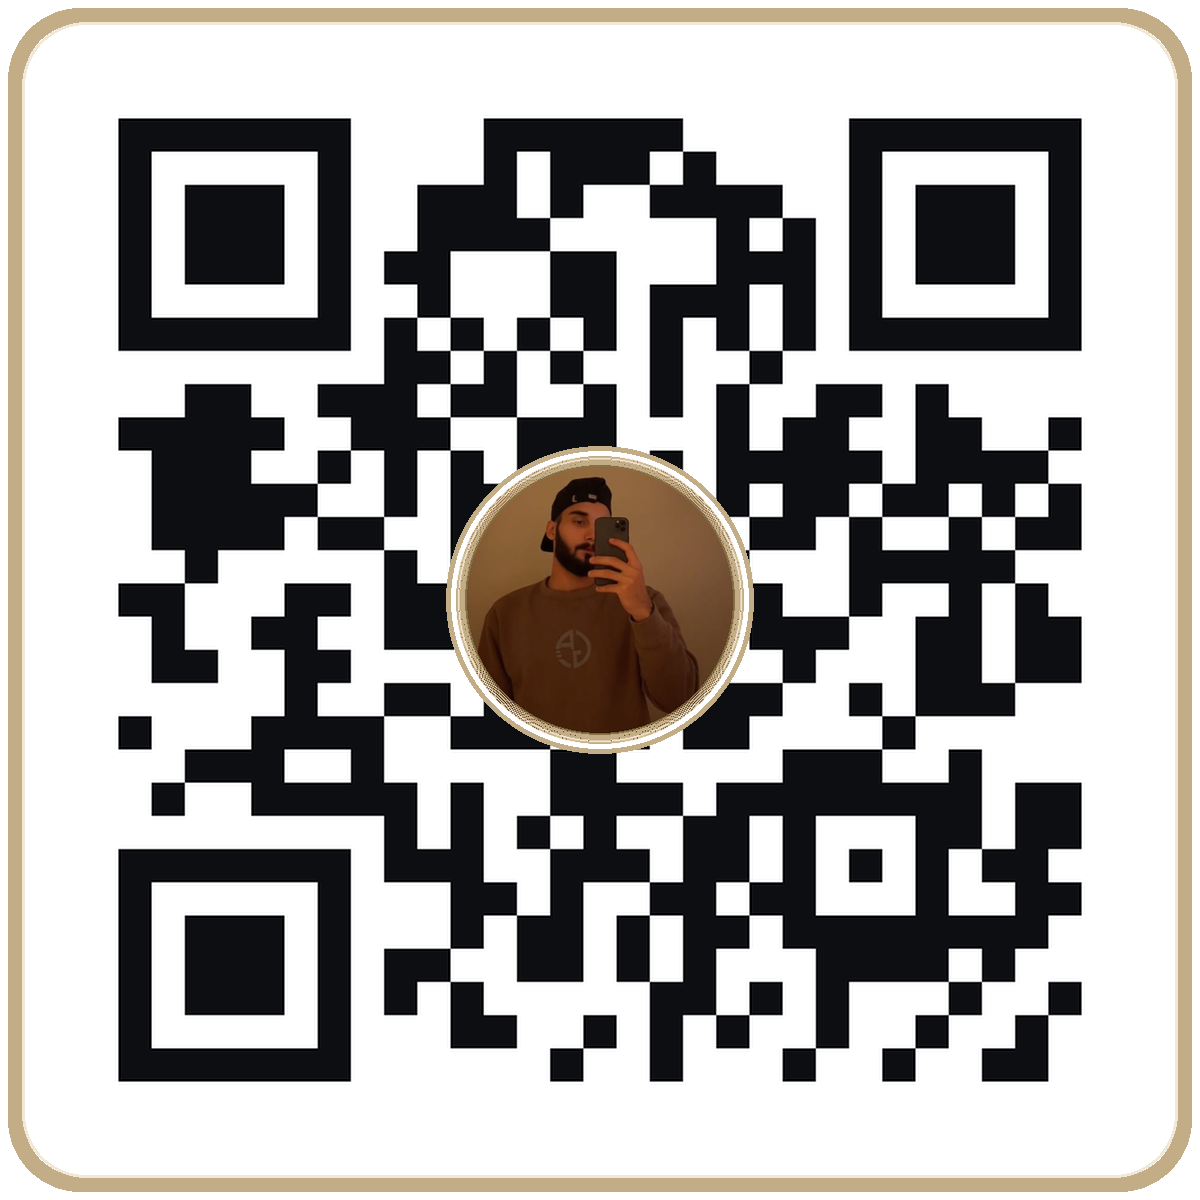
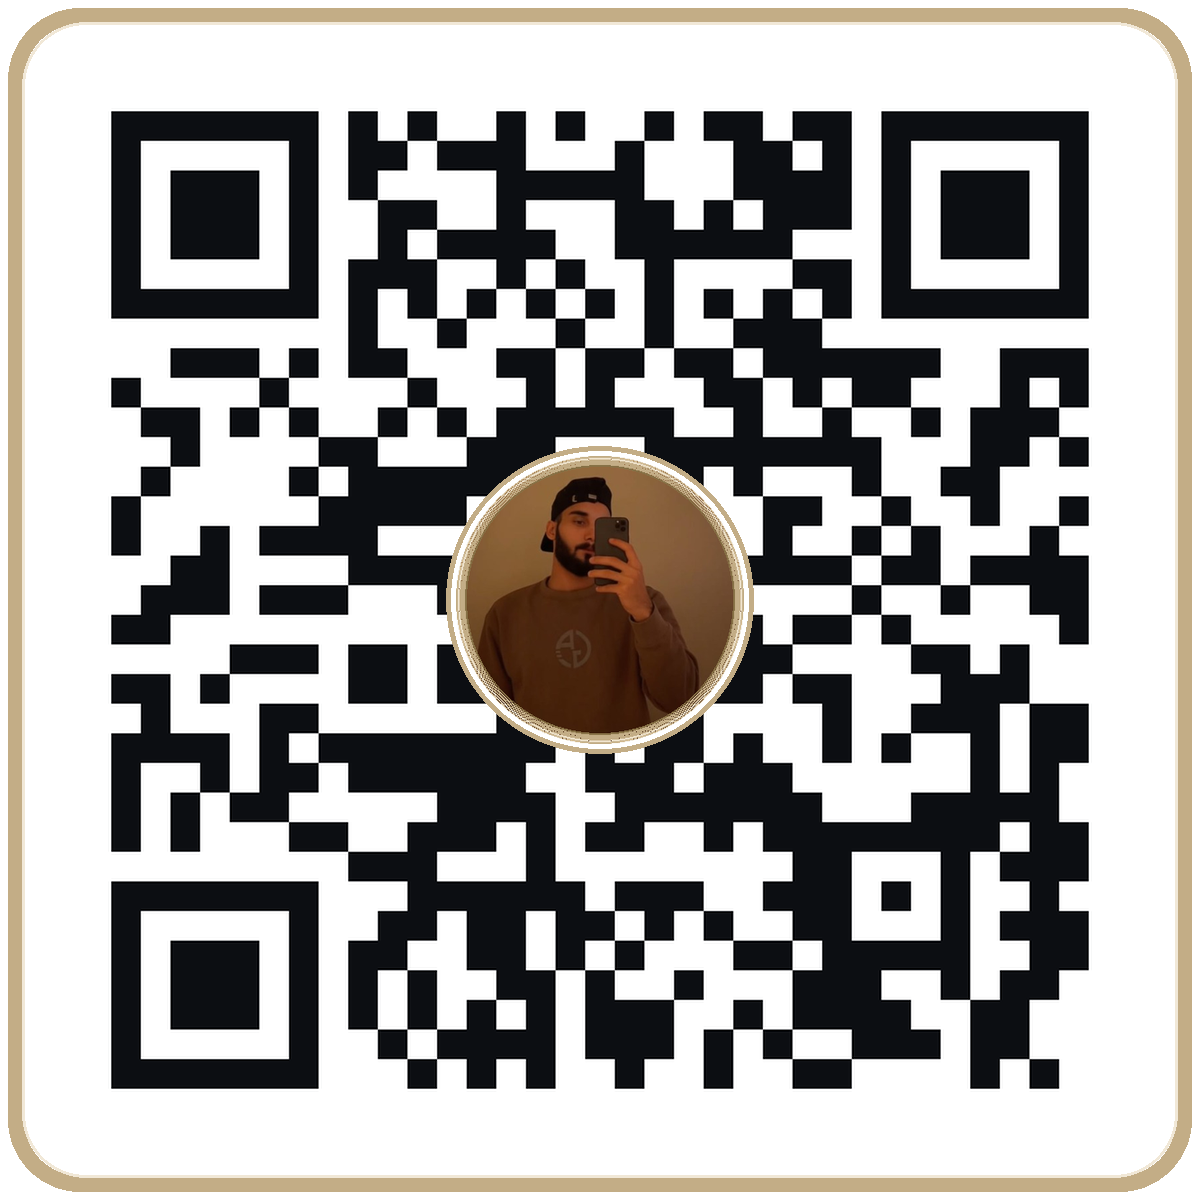
Update QR codes and acrylic stand poster with live production URL: https://royalcut-qr.vercel.app/

diff --git a/generate_website_qr.py b/generate_website_qr.py
@@ -202,7 +202,7 @@ def build_luxury_stand(fancy_qr, url_text):
     return bg
 
 if __name__ == "__main__":
-    url = sys.argv[1] if len(sys.argv) > 1 else "http://192.168.0.100:3000"
+    url = sys.argv[1] if len(sys.argv) > 1 else "https://royalcut-qr.vercel.app/"
     print(f"Generating Salon Stand Poster with prestigious typography for: {url}")
     
     avatar = create_circular_avatar("profile.jpg", size=320, border_width=12)
